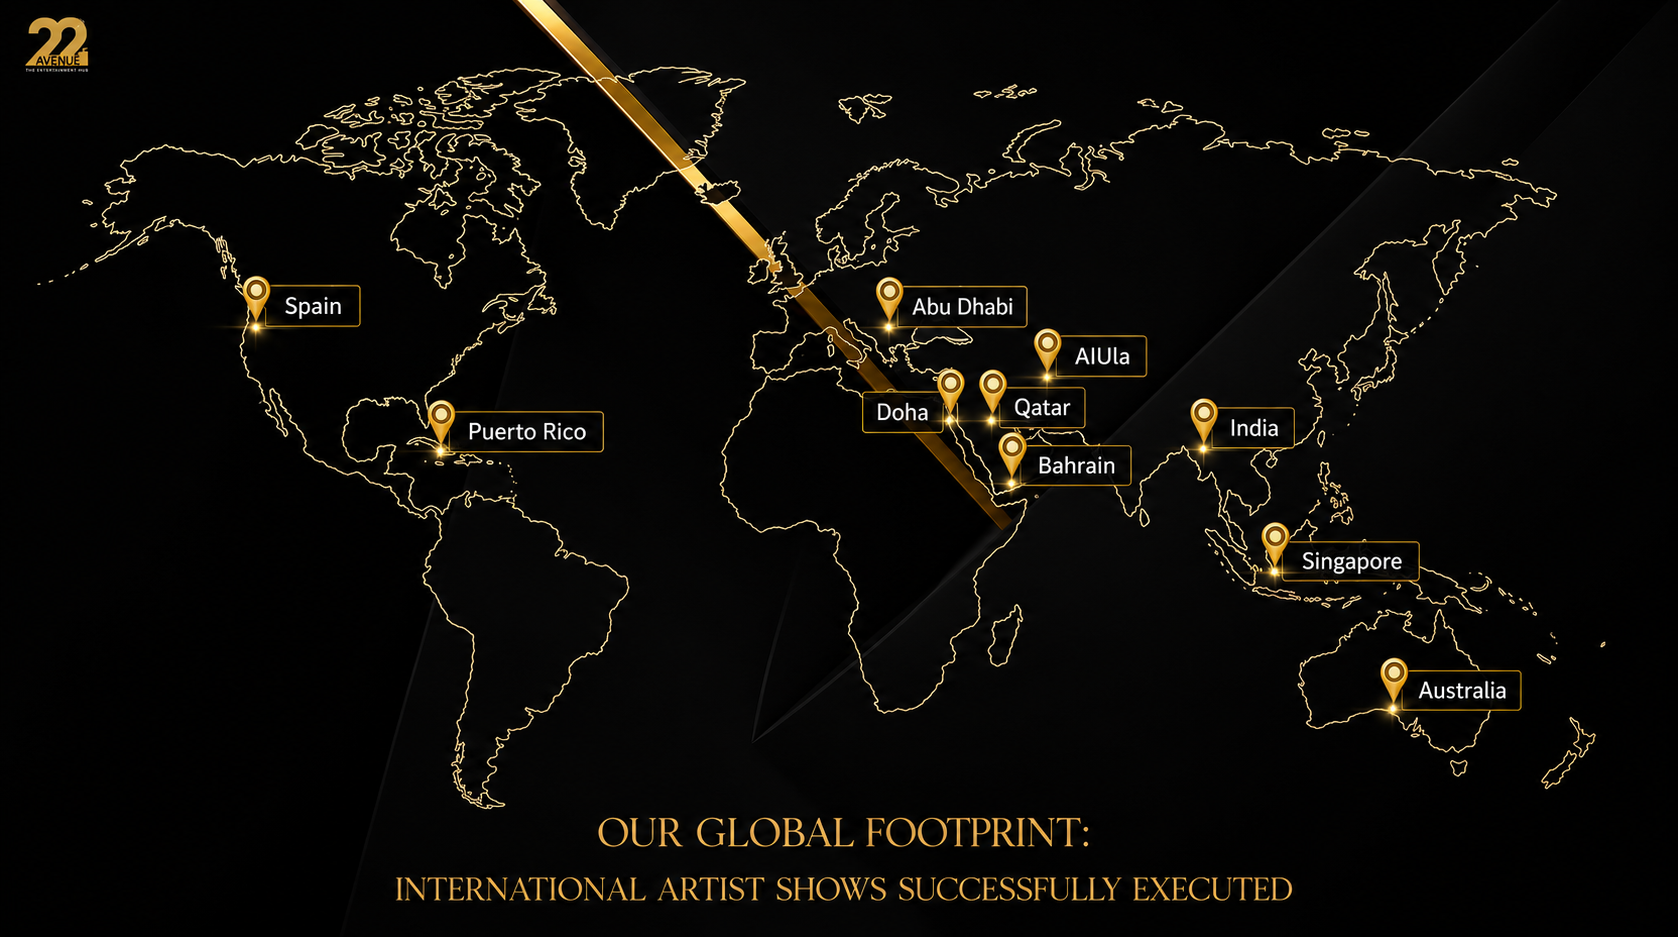
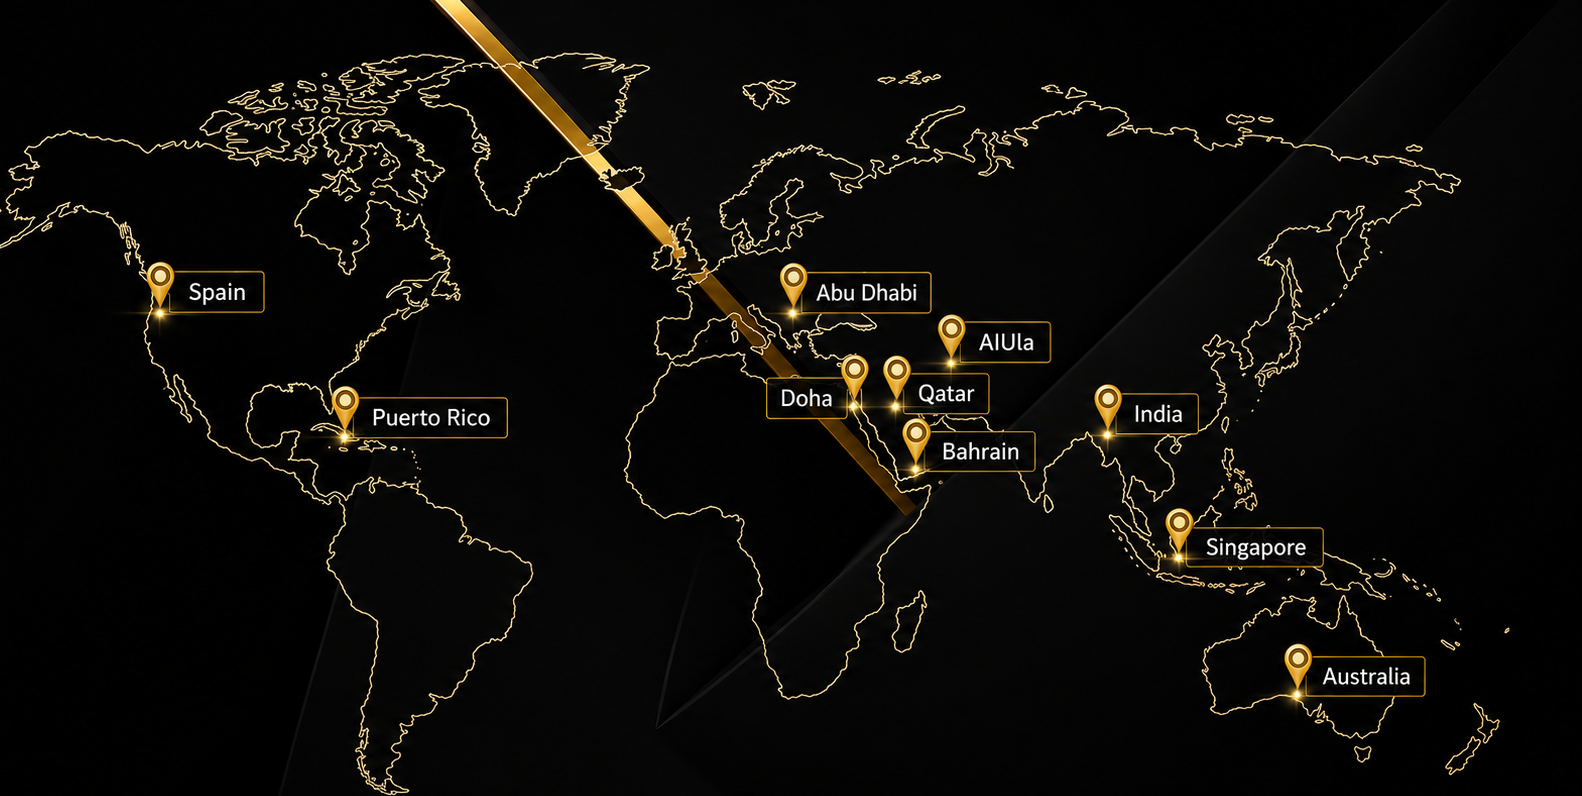
Added global footprints

diff --git a/src/components/Spotlight/GlobalFootprint.module.css b/src/components/Spotlight/GlobalFootprint.module.css
@@ -31,15 +31,15 @@
 
 .subcopy {
   font-family: var(--font-body);
-  font-size: clamp(0.85rem, 1.8vw, 1.1rem);
-  color: rgba(255, 255, 255, 0.6);
+  font-size: clamp(0.95rem, 1.2vw, 1.1rem);
+  color: rgba(255, 255, 255, 0.8);
   text-align: center;
-  margin: 1rem auto 0;
-  letter-spacing: 0.15em;
-  max-width: 600px;
+  margin: 1.2rem auto 0;
+  letter-spacing: 0.02em;
+  max-width: 650px;
   line-height: 1.6;
-  text-transform: uppercase;
-  font-weight: 500;
+  text-transform: none;
+  font-weight: 400;
   text-shadow: 0 2px 4px rgba(0, 0, 0, 0.5);
 }
 

diff --git a/src/components/Spotlight/GlobalFootprint.tsx b/src/components/Spotlight/GlobalFootprint.tsx
@@ -107,7 +107,7 @@ export function GlobalFootprint({ data }: { data?: { image: string } }) {
             OUR GLOBAL <span className={styles.goldText}>FOOTPRINT</span>
           </h2>
           <p className={styles.subcopy}>
-            INTERNATIONAL ARTIST SHOWS<br />SUCCESSFULLY EXECUTED
+            A curated showcase of world-class productions and international artist shows successfully executed across key global destinations.
           </p>
         </ScrollReveal>
 